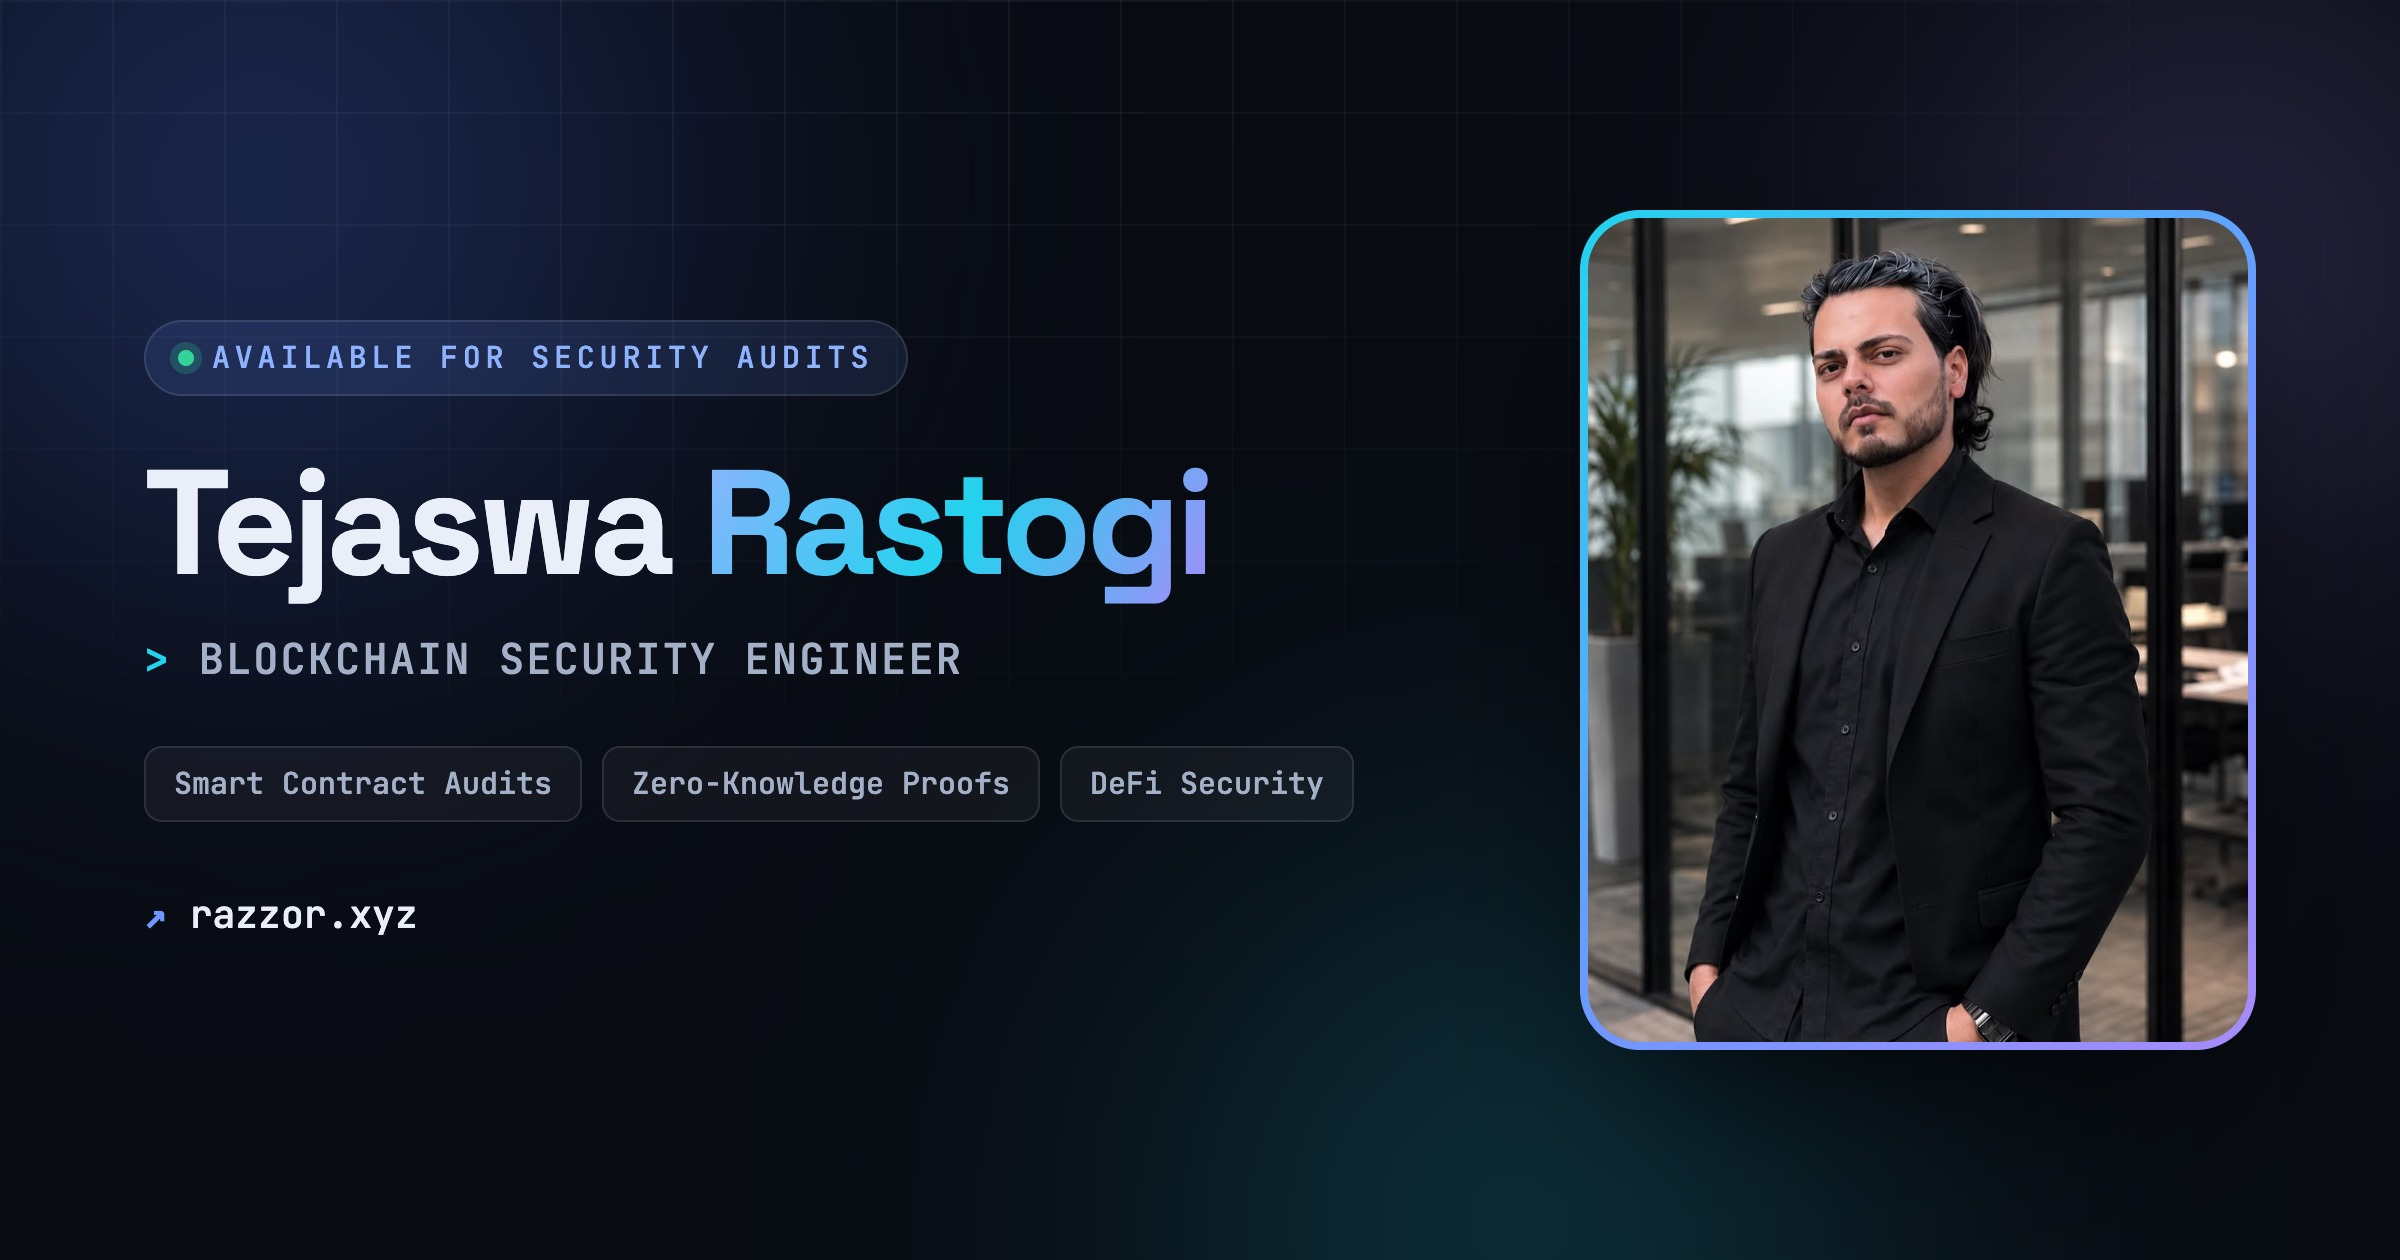
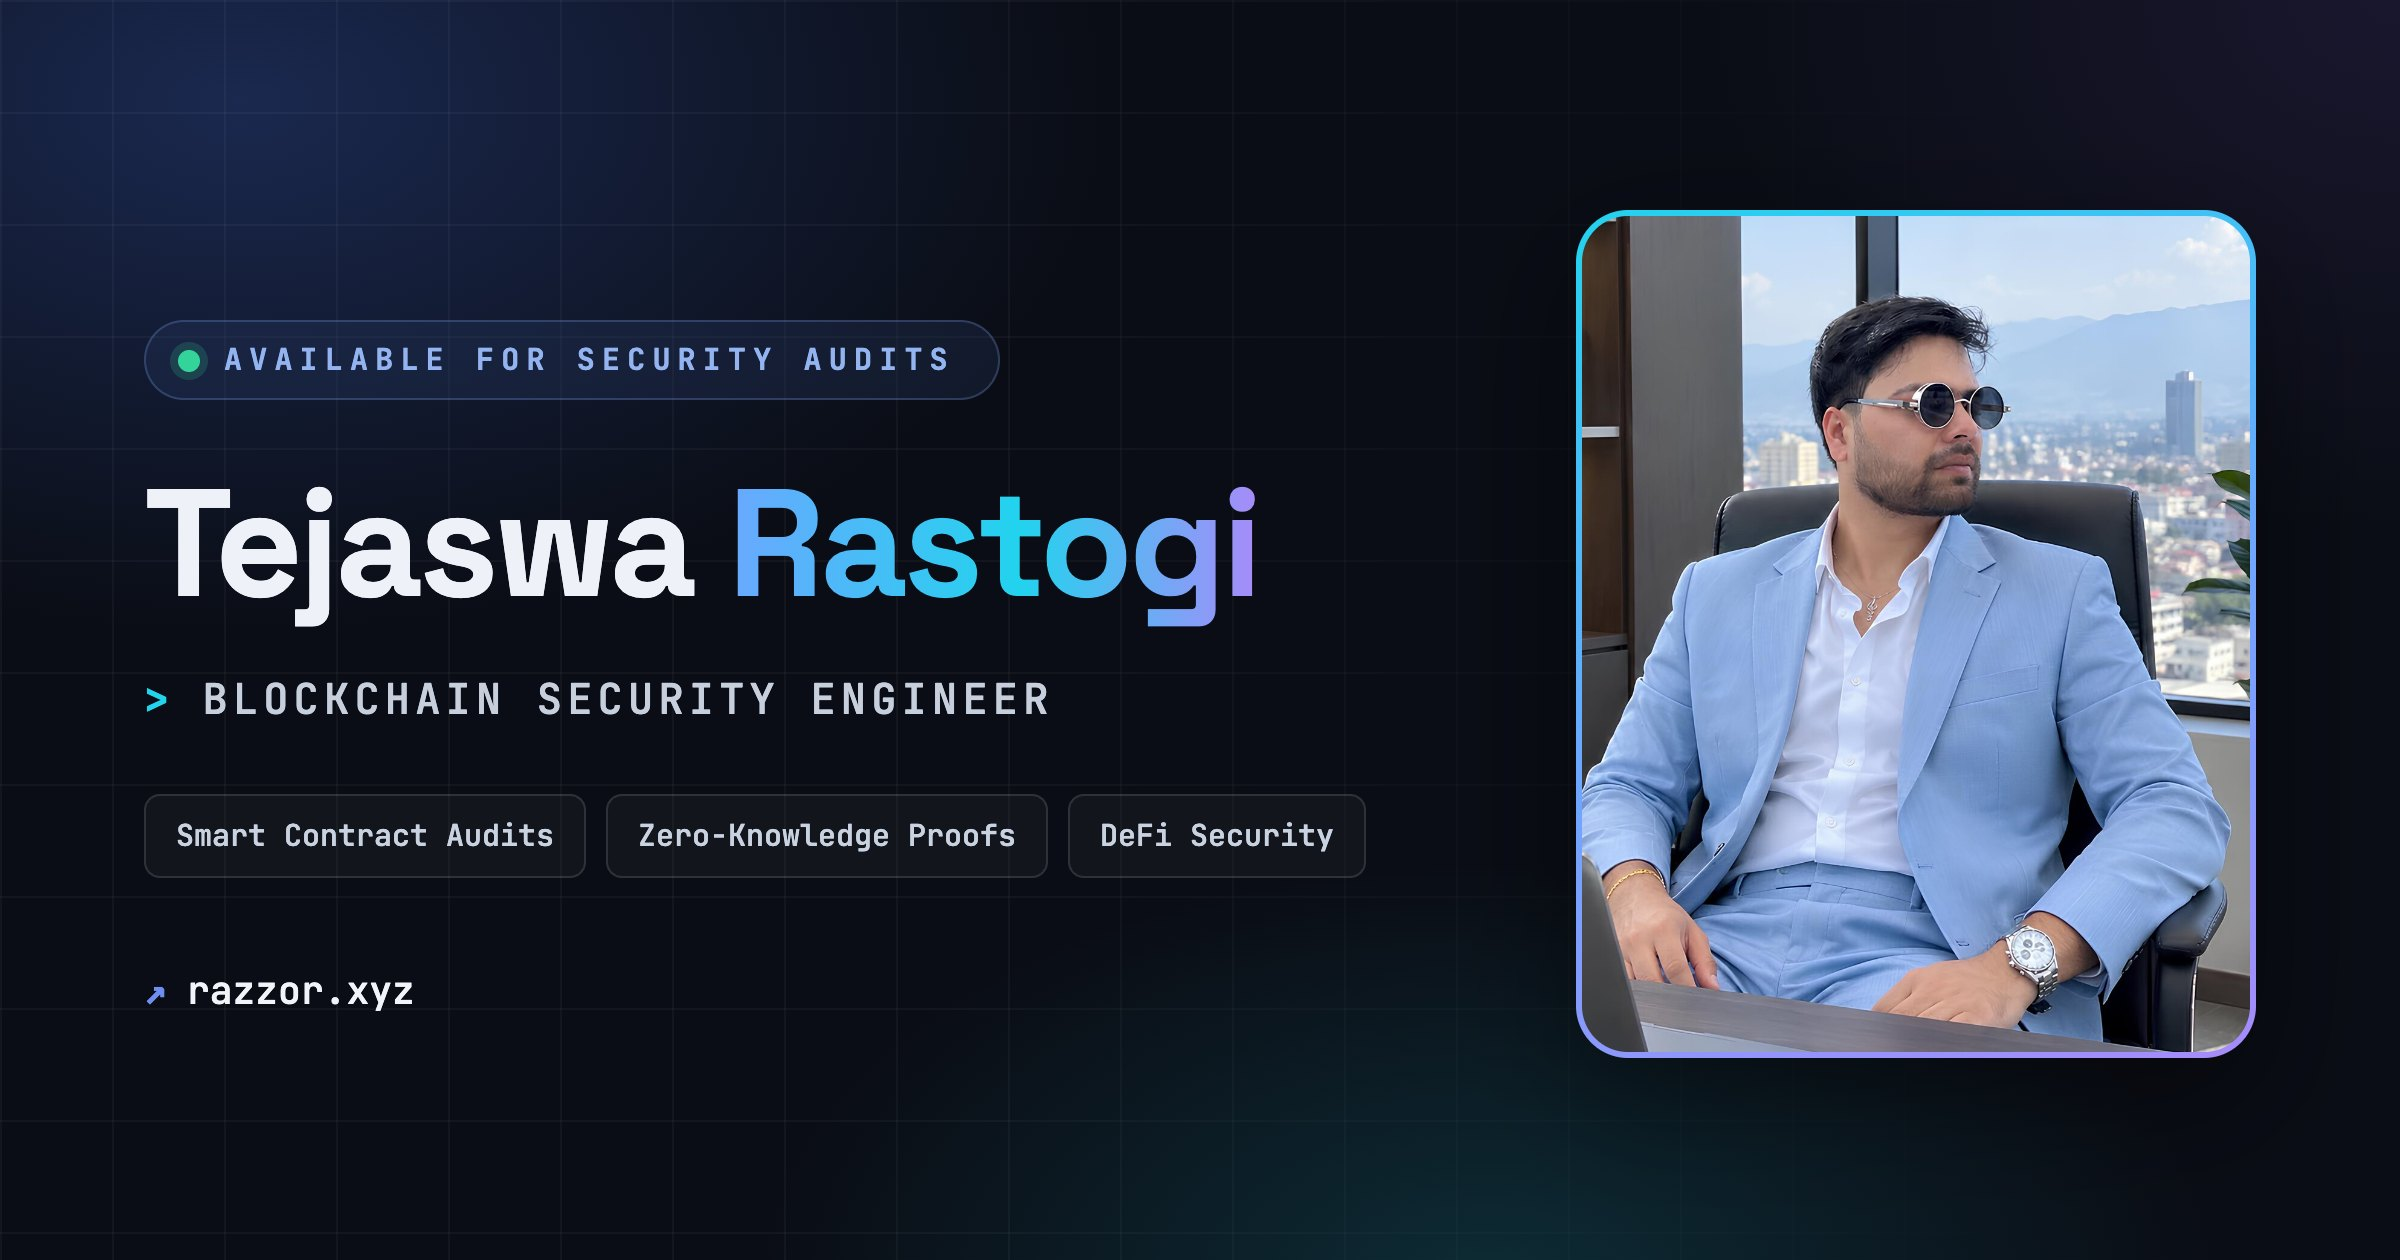
New profile photo and preview card

diff --git a/public/index.html b/public/index.html
@@ -51,7 +51,7 @@
     <meta property="og:url" content="https://razzor.xyz/" />
     <meta property="og:title" content="Razzor (Tejaswa Rastogi) — Blockchain Security Engineer" />
     <meta property="og:description" content="Blockchain security engineer specializing in smart contract audits and zero-knowledge proof systems. Previously Matter Labs/zkSync and ConsenSys Diligence." />
-    <meta property="og:image" content="https://razzor.xyz/og-image.jpg" />
+    <meta property="og:image" content="https://razzor.xyz/og-image.jpg?v=2" />
     <meta property="og:image:width" content="1200" />
     <meta property="og:image:height" content="630" />
     <meta property="og:image:alt" content="Tejaswa Rastogi (Razzor) - Blockchain Security Engineer" />
@@ -62,7 +62,7 @@
     <meta name="twitter:url" content="https://razzor.xyz/" />
     <meta name="twitter:title" content="Razzor (Tejaswa Rastogi) — Blockchain Security Engineer" />
     <meta name="twitter:description" content="Smart contract audits and zero-knowledge proof security. Blockchain Security Engineer at ADI Foundation." />
-    <meta name="twitter:image" content="https://razzor.xyz/og-image.jpg" />
+    <meta name="twitter:image" content="https://razzor.xyz/og-image.jpg?v=2" />
     <meta name="twitter:image:alt" content="Tejaswa Rastogi (Razzor) - Blockchain Security Engineer" />
     <meta name="twitter:creator" content="@razzor_tweet" />
     <meta name="twitter:site" content="@razzor_tweet" />
@@ -90,7 +90,7 @@
           "jobTitle": "Blockchain Security Engineer",
           "description": "Blockchain security engineer specializing in smart contract audits and zero-knowledge proof systems.",
           "url": "https://razzor.xyz/",
-          "image": "https://razzor.xyz/og-image.jpg",
+          "image": "https://razzor.xyz/og-image.jpg?v=2",
           "email": "mailto:razzor@ciphershastra.com",
           "sameAs": [
             "https://github.com/razzor-codes",

diff --git a/src/components/SEO/SEO.tsx b/src/components/SEO/SEO.tsx
@@ -12,7 +12,7 @@ interface SEOProps {
 const SEO: React.FC<SEOProps> = ({
   title = "Razzor (Tejaswa Rastogi) — Blockchain Security Engineer",
   description = "Blockchain security engineer specializing in smart contract audits and zero-knowledge proof systems. Previously Matter Labs/zkSync and ConsenSys Diligence.",
-  image = "https://razzor.xyz/og-image.jpg",
+  image = "https://razzor.xyz/og-image.jpg?v=2",
   url = "https://razzor.xyz/",
   type = "website"
 }) => {
